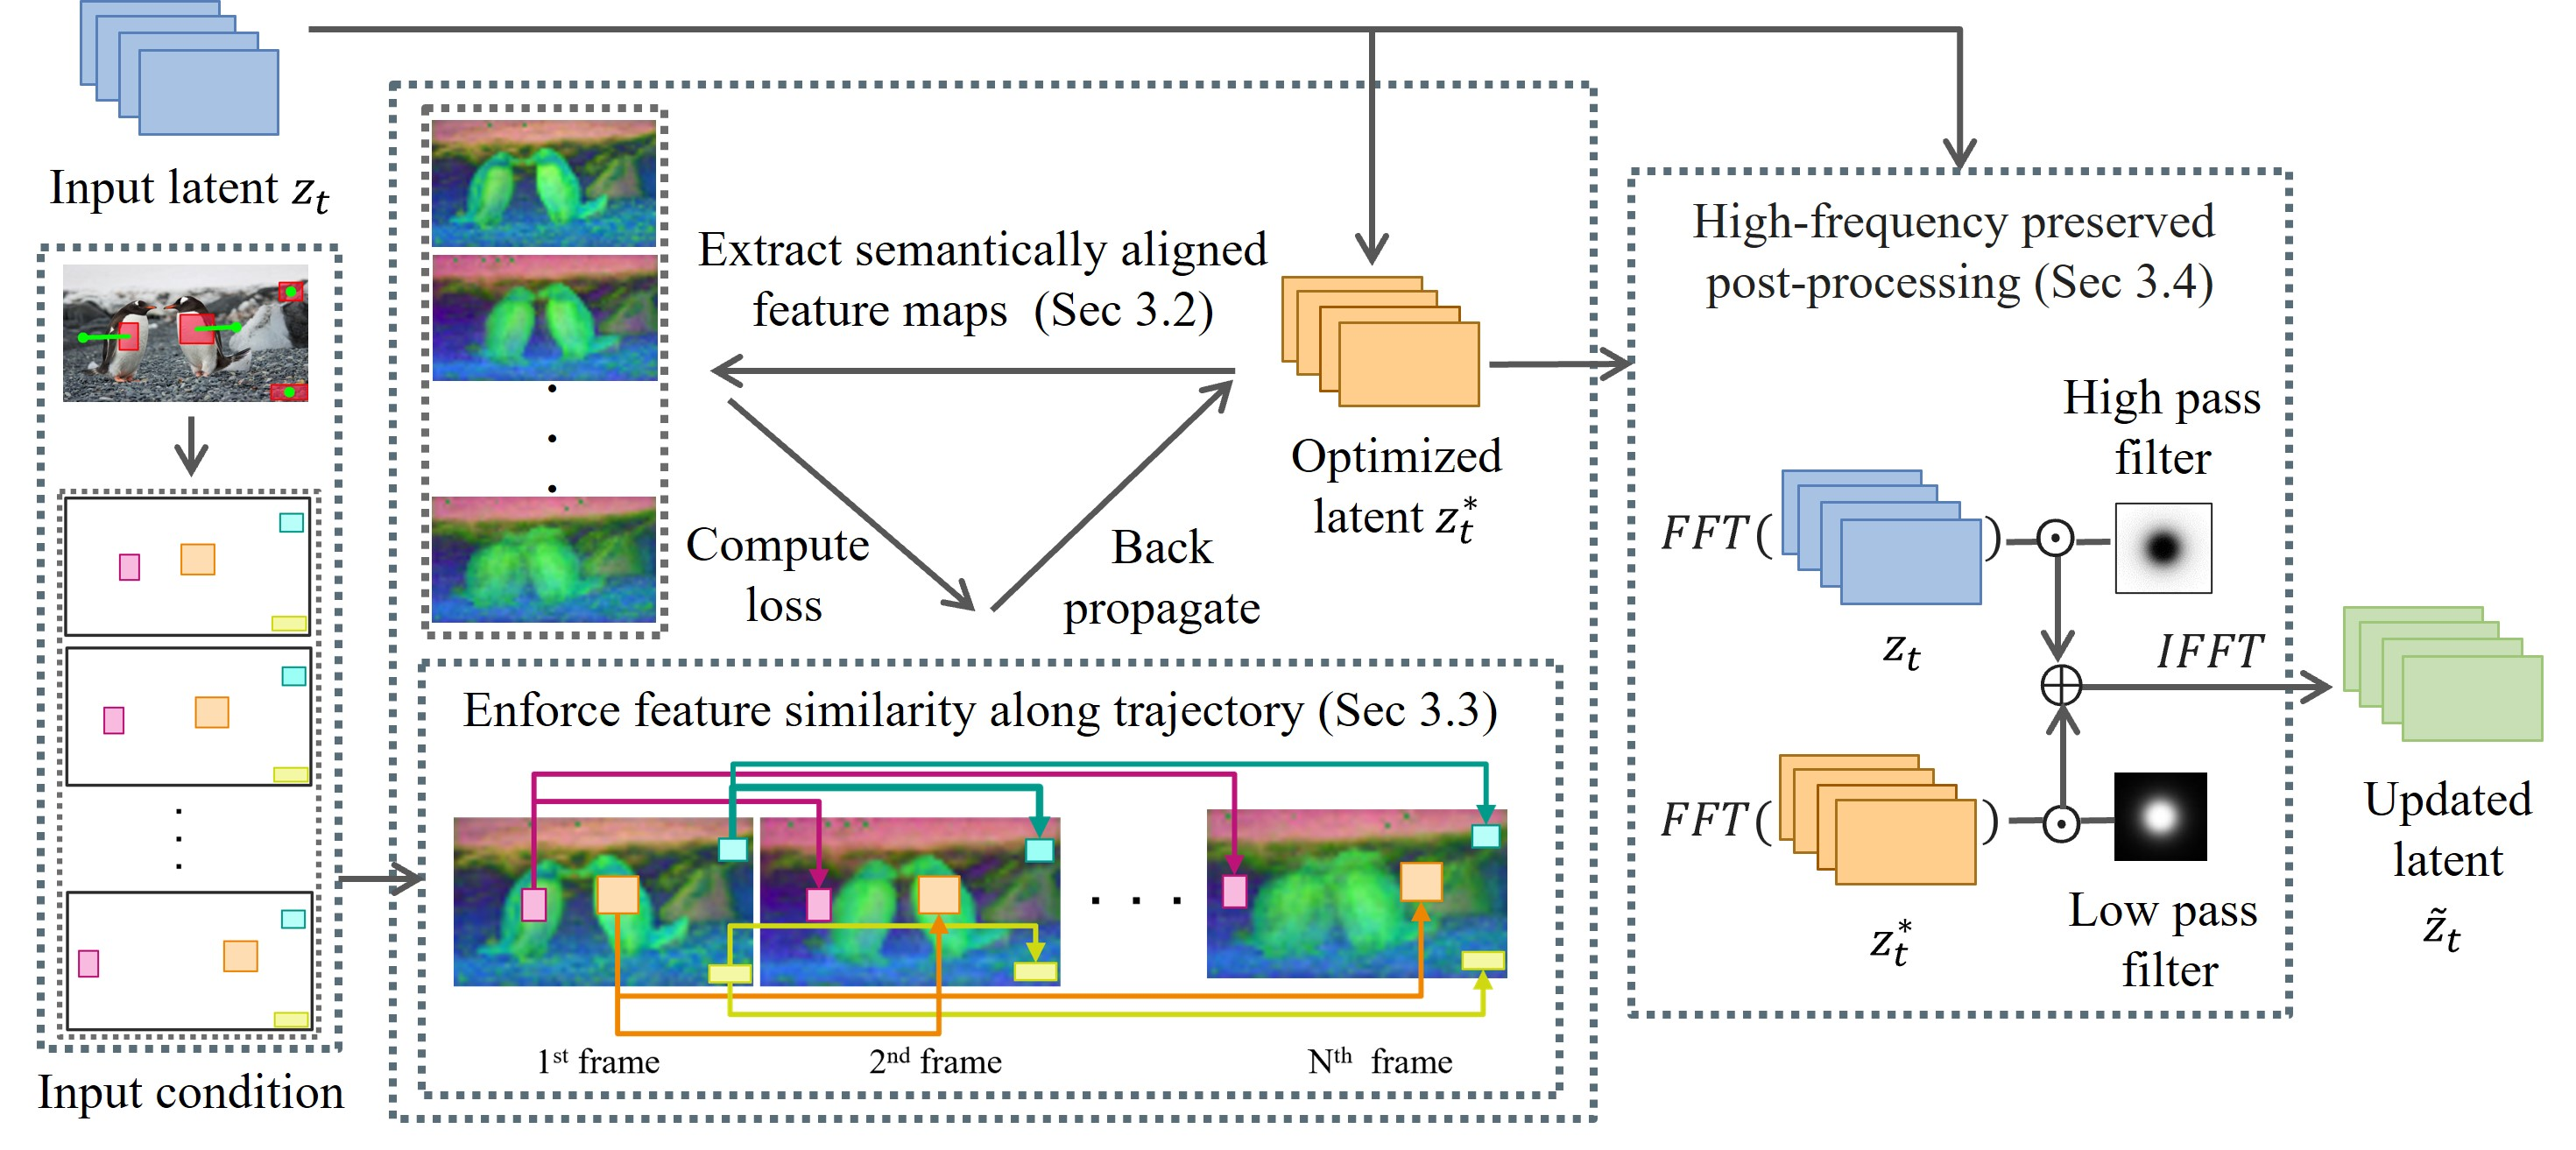
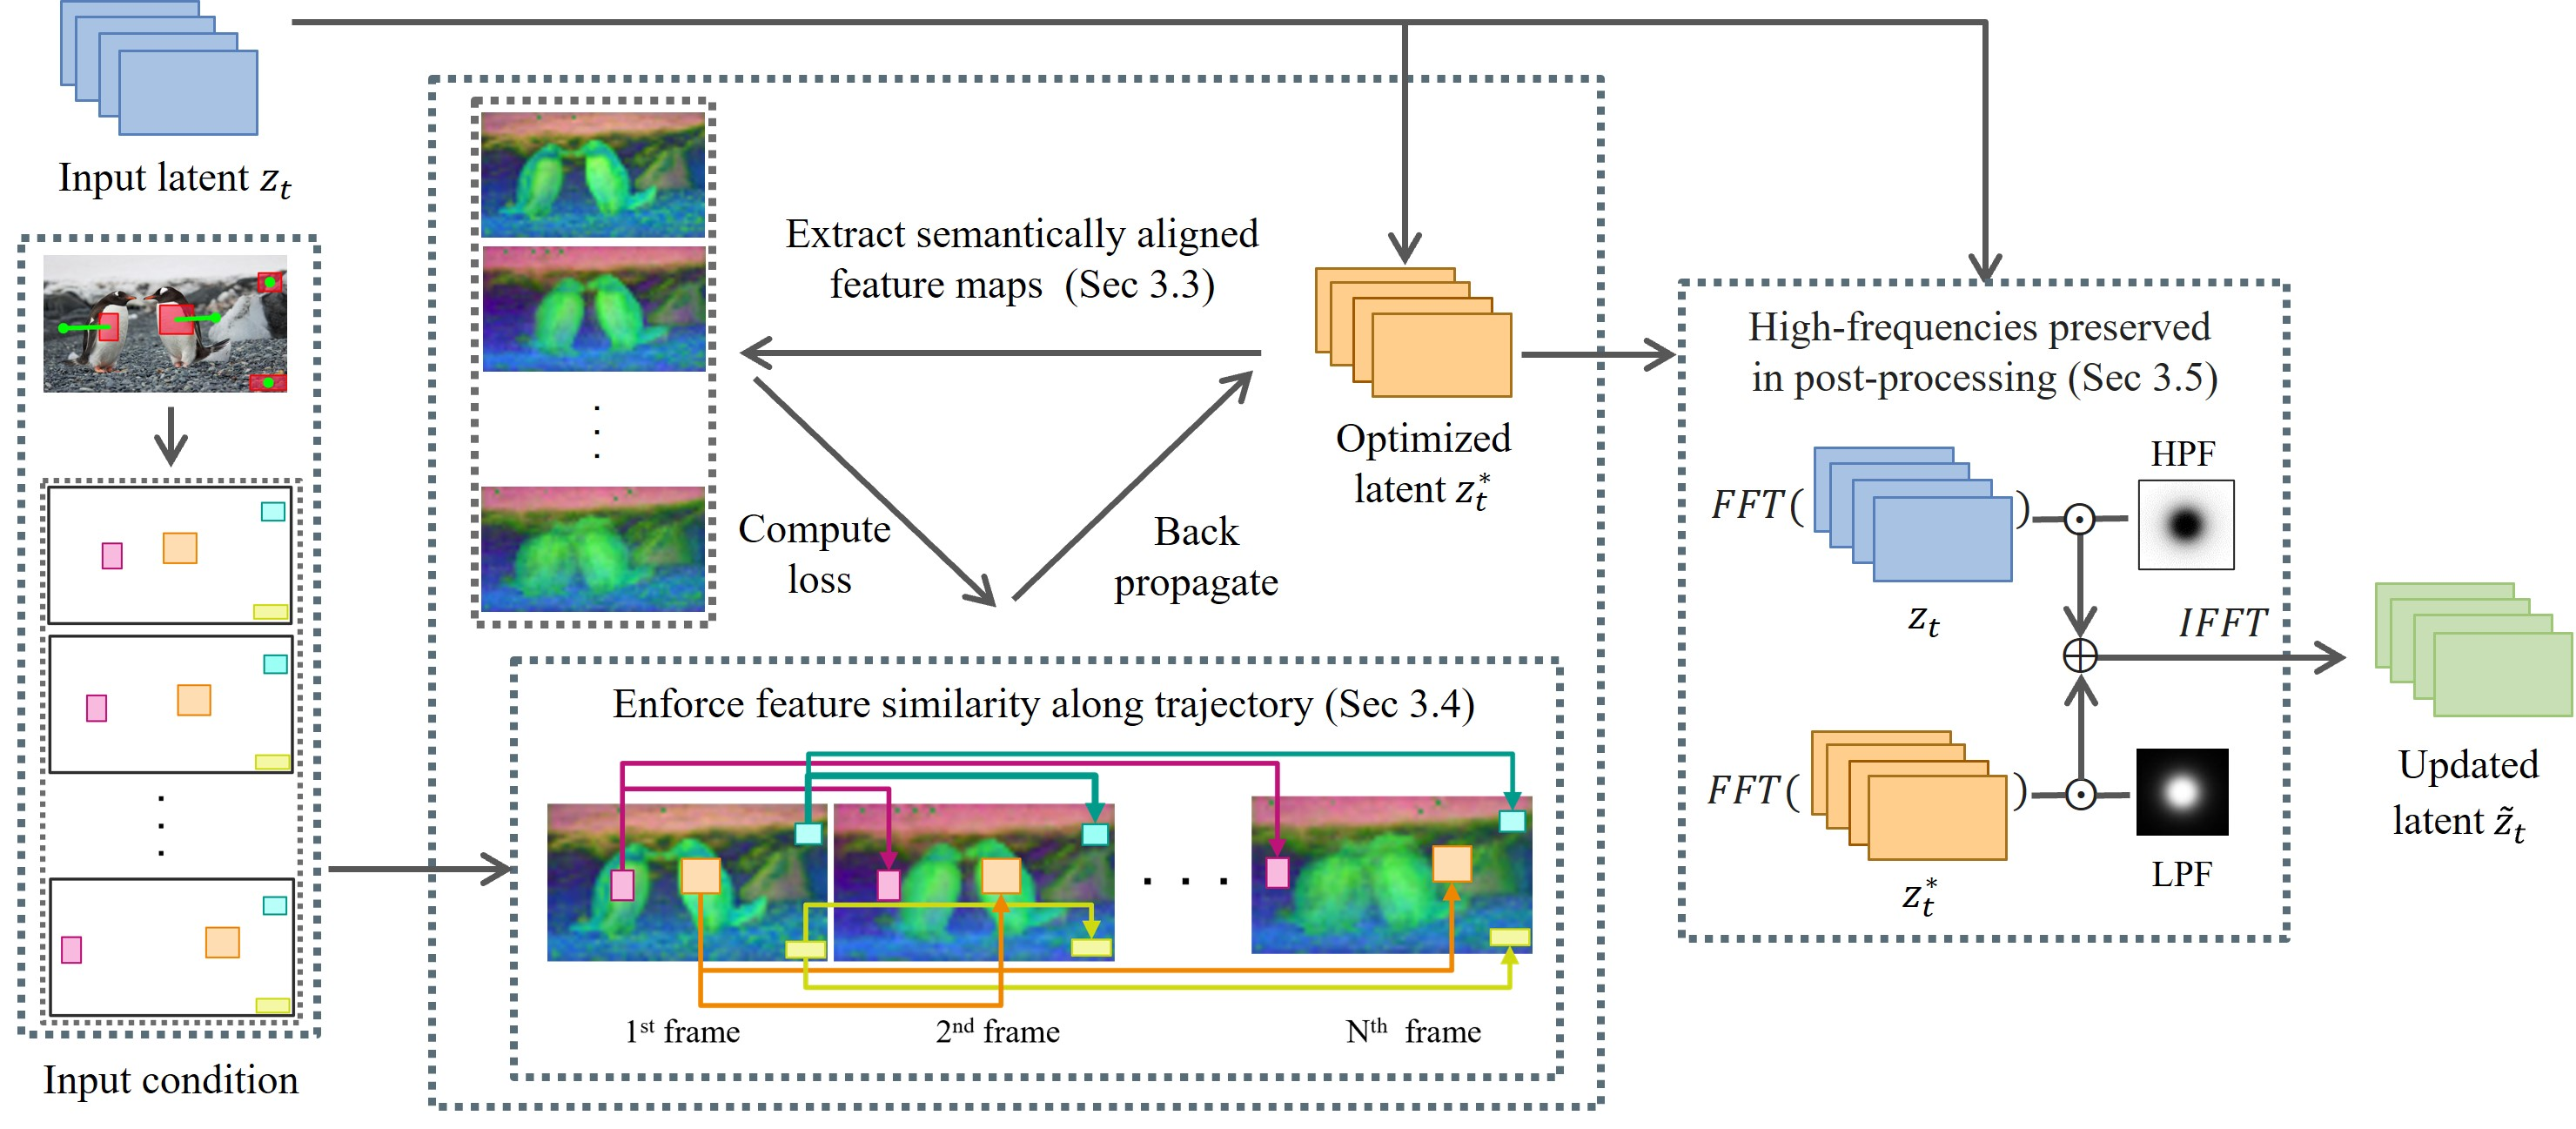
upd

diff --git a/index.html b/index.html
@@ -248,6 +248,20 @@ Senior High School at Komaba, University of Tsukuba (筑波大学附属駒場高
           </tbody></table> 
           <table style="width:100%;border:0px;border-spacing:0px;border-collapse:separate;margin-right:auto;margin-left:auto;"><tbody>
             <tr>
+            <td style="padding:20px;width:100%;vertical-align:middle">
+              <h2>Academic Service</h2>
+            </td>
+          </tr>
+        </tbody></table>
+          <table style="width:100%;border:0px;border-spacing:0px;border-collapse:separate;margin-right:auto;margin-left:auto;"><tbody>
+            <tr>
+              <td style="padding:20px;width:100%;vertical-align:middle">
+                Conference reviewer: ICLR'25
+              </td>
+             </tr>
+           </tbody></table>
+          <table style="width:100%;border:0px;border-spacing:0px;border-collapse:separate;margin-right:auto;margin-left:auto;"><tbody>
+            <tr>
               <td style="padding:0px">
                 <br>
                 <p style="text-align:right;font-size:small;">

diff --git a/Projects/SG-I2V/index.html b/Projects/SG-I2V/index.html
@@ -134,7 +134,7 @@ However, adjusting specific elements in generated videos, such as object motion 
 Recent techniques address this issue by fine-tuning a pre-trained model to follow conditioning signals, such as bounding boxes or point trajectories. 
 Yet, this fine-tuning procedure can be computationally expensive, and it requires datasets with annotated object motion, which can be difficult to procure. 
 In this work, we introduce SG-I2V, a framework for controllable image-to-video generation that is self-guided&mdash;offering zero-shot control by relying solely on the knowledge present in a pre-trained image-to-video diffusion model without the need for fine-tuning or external knowledge. 
-Our zero-shot method outperforms unsupervised baselines while being competitive with supervised models in terms of visual quality and motion fidelity.
+Our zero-shot method outperforms unsupervised baselines while significantly narrowing down the performance gap with supervised models in terms of visual quality and motion fidelity.
                 </p>
             </div>
         </div>